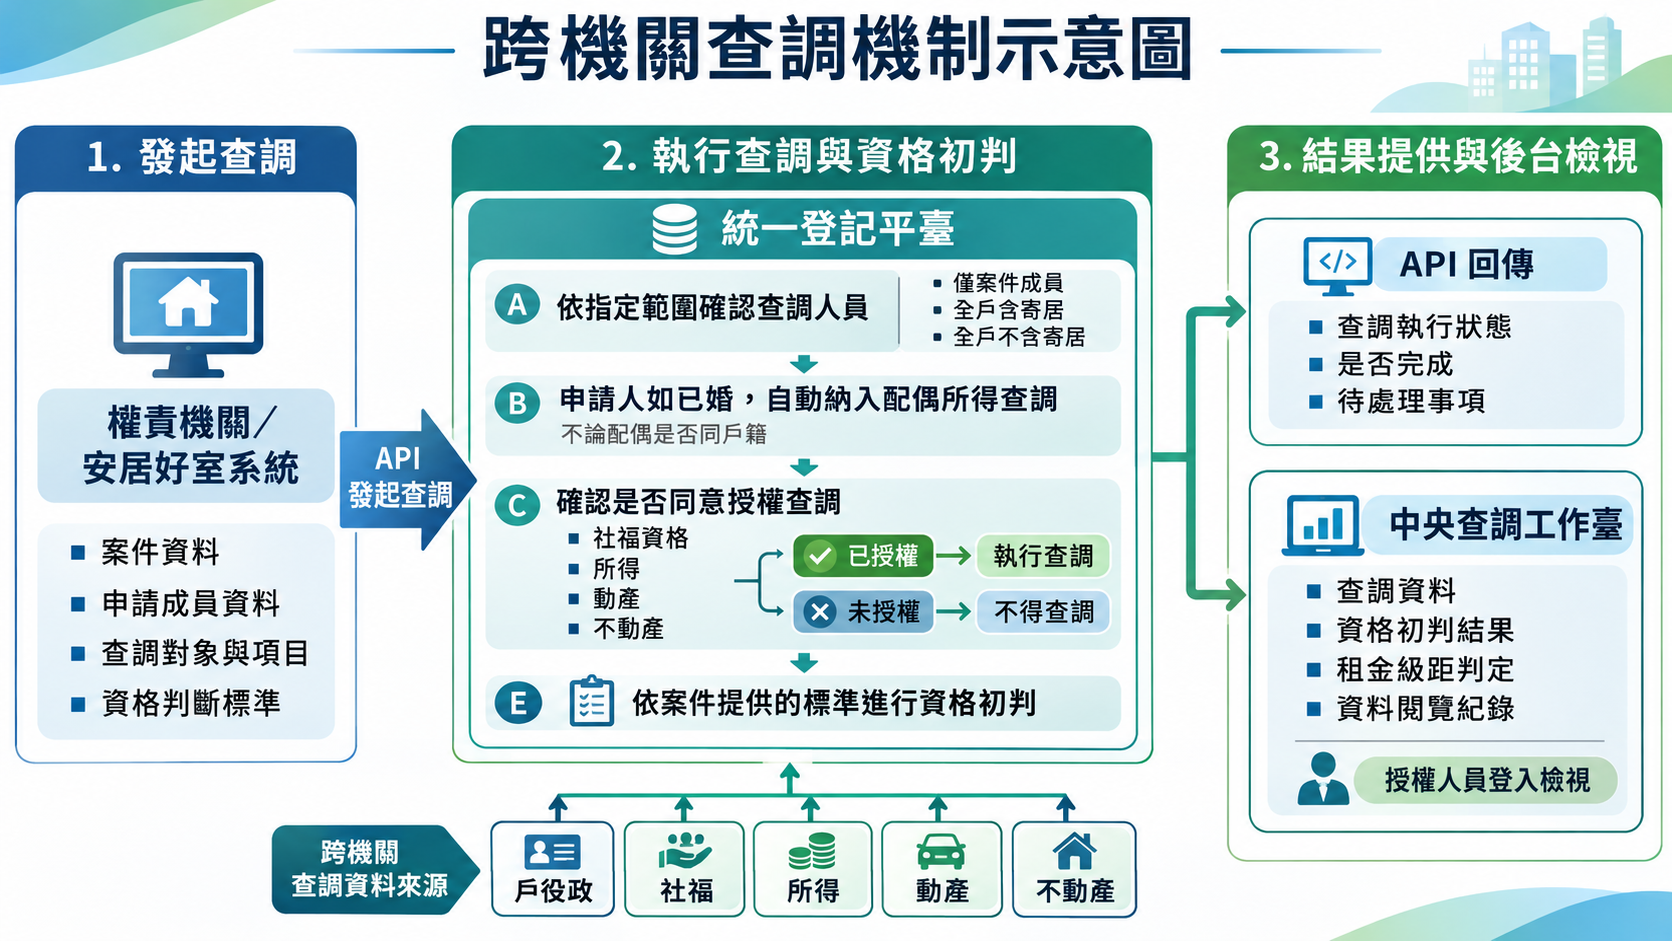
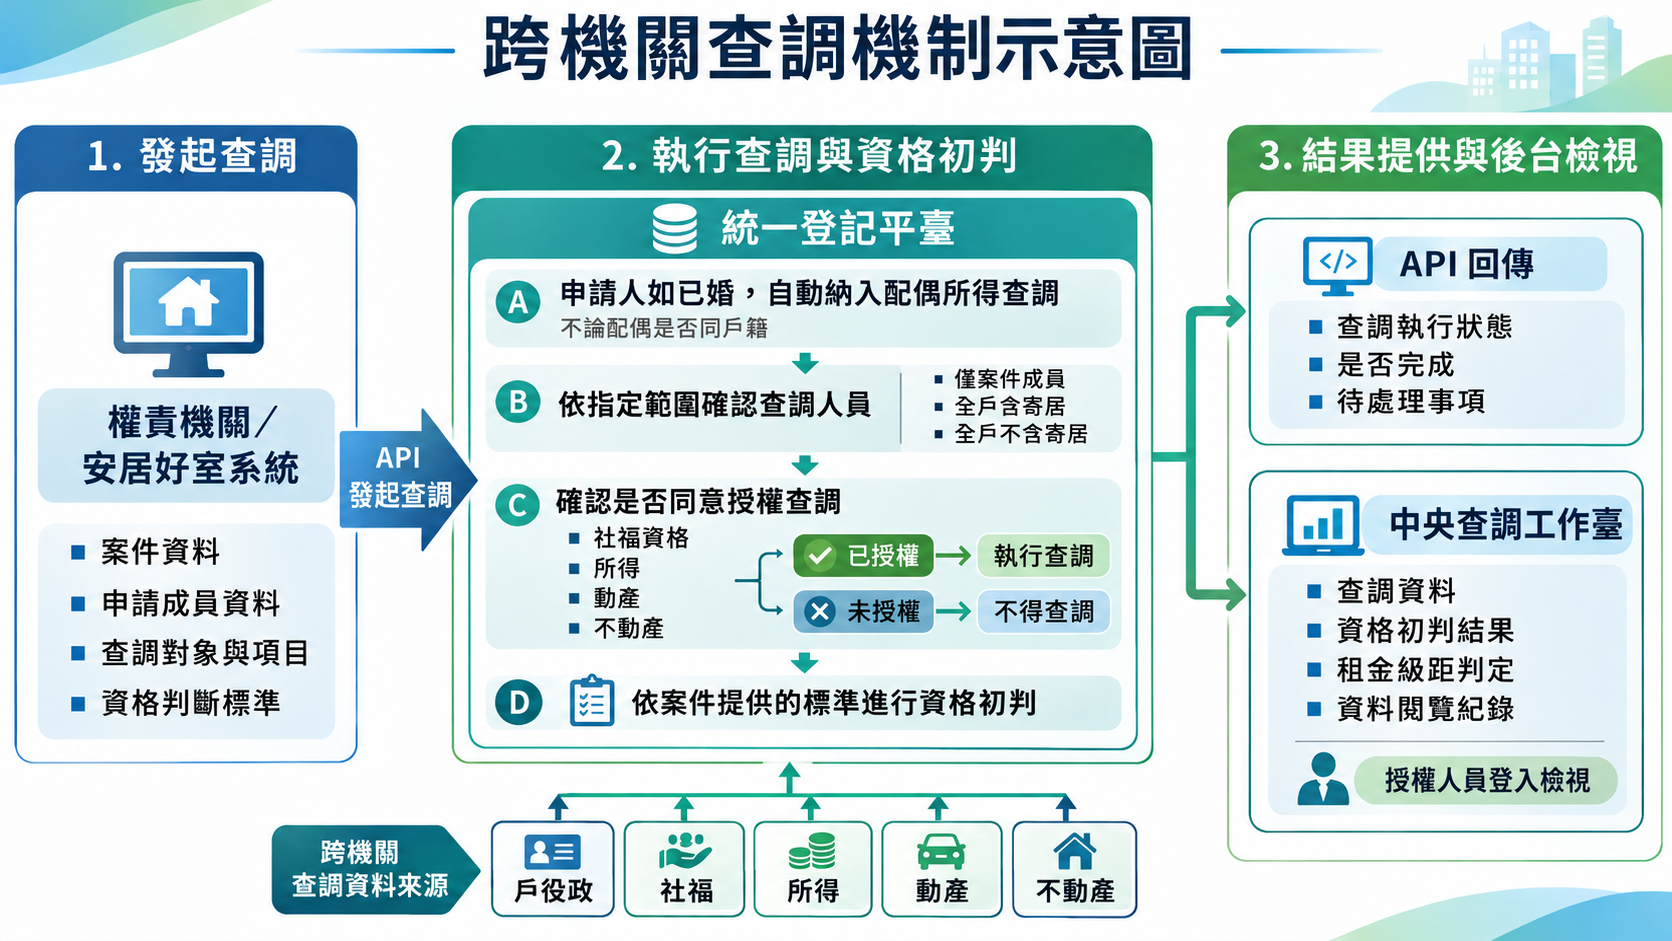
update

diff --git a/規格文件/跨機關查調機制.md b/規格文件/跨機關查調機制.md
@@ -10,11 +10,9 @@
 
 查調**社福資格、所得、動產及不動產**前，須確認受查人員已同意授權；**未授權不得查調**。系統取得資料後，依案件提供的標準進行**資格初判**。
 
-查調完成後，API 提供**查調執行狀態**；權責機關授權人員登入**中央查調工作臺**檢視查調資料及初判結果，系統並**留存資料閱覽紀錄**。
+查調完成後，API 提供**查調執行狀態**；權責機關授權人員登入**中央查調工作臺**檢視查調資料及初判結果，系統並**留存資料閱覽紀錄**及該案**歷次查調紀錄**。
 
 ![跨機關查調機制流程圖](跨機關查調機制流程圖.png)
-
-### 1.1 目的、分工與共同原則
 
 本規劃採三支對外 API，依序處理「確認配偶是誰」、「取得各戶名單」、「執行案件查調」。**配偶即使不同戶，仍須能透過婚姻／配偶資料識別，不能只在申請人戶籍名單內尋找配偶。**
 
@@ -38,8 +36,8 @@
 
 | 資料類別 | 輸入內容 |
 |---|---|
-| **案件資料** | 統一案件編號、權責機關<br>申請社宅、申請房型、申請時間<br>查調基準日 |
-| **案件成員** | **第一筆固定為申請人** <br>姓名、身分證字號、懷孕胎兒數<br>是否同意授權查調|
+| **申請案件資料** | 統一案件編號、權責機關<br>申請社宅(代碼)、申請房型(名稱)、申請時間<br>查調基準日 |
+| **申請案件成員** | **第一筆固定為申請人** <br>姓名、身分證字號、懷孕胎兒數<br>是否同意授權查調|
 | **名單準備方式（三選一，非 API 欄位）** | ① **僅案件成員**<br>② **全戶含寄居**<br>③ **全戶不含寄居** |
 | **查調資料（可複選）** | ① **戶役政**（基本）<br>② **社福資格**（基本，須授權）<br>③ **所得**（基本，須授權）<br>④ **動產**（依需求，須授權）<br>⑤ **不動產**（依需求，須授權） |
 | **資格標準** | ① **年所得標準**<br>② **每人每月平均所得標準**<br>③ **不動產價值標準**<br>④ **動產價值標準**<br>⑤ **所得級距**：<br>　• 級距名稱（可自訂，筆數不固定）<br>　• 條件二選一：**每人每月平均所得起訖範圍**，或**住宅法第 4 條弱勢身分（勾選 13 類中的適用項目）** |
@@ -540,9 +538,7 @@ flowchart TD
 - `LAW` 與 `INCOME` 條件擇一；級距依順序判斷，必要資料不足不跳過前項直接判定較後級距。`W01`、`W07` 暫為代碼示意，正式類別對照表須在會議確認，不據此推定具體資格。
 - 重送同一請求與主動重新查調須能區分，避免意外產生重複批次；冪等識別、逾時及錯誤格式列為後續技術契約，不在本版捏造輸出。
 
-## 五、中央結果檢視
-
-本節僅說明中央工作臺的檢視功能，不定義對外 API 或內部介面路徑。案件查調 API 的輸出尚未定案，暫不提供格式範例。
+## 五、查調工作台 - 結果檢視
 
 中央工作臺顯示：**家庭總所得、每人每月平均所得、動產、不動產的實際值／標準／初判結果，以及適用租金級距與判斷理由、戶籍成員明細**。
 
@@ -557,19 +553,19 @@ flowchart TD
 [查調結果明細(配偶未列未授權)](https://jillyz.github.io/housing/backend/enquiry-detail-spouse-demo.html)
 
 
-## 六、會議需確認的事項
+## 附錄一、財政部所得類別代號表
 
-下列為尚未定案的設計決策，不應視為已完成的介接規格。
 
-| 項目 | 本版建議／需要確認的問題 | 建議確認對象 |
-|---|---|---|
-| 基本資料介接對照 | 是否已婚及已婚者配偶姓名、身分證字號已確認可取得；待確認來源欄位與狀態碼對照、查調基準日支援及錯誤情境，不再將資訊是否可取得列為待決事項。 | 戶政介接窗口、平臺團隊 |
-| 全戶回傳可行性 | 目前以同次呼叫回傳完整名單規劃；確認來源時效、最大等待時間及歷史基準日支援。若不支援，再討論非同步，不能先承諾。 | 兩方開發團隊、戶政介接窗口 |
-| 實際受查名單 | 建議由權責機關依業務規則提供 `query.subjectNationalIds`，中央檢核；配偶戶其他成員納入條件、不同人的查調項目須明訂。 | 國家住都中心／權責機關、兩方開發團隊 |
-| 人口與資格計算 | 哪些人計入所得與分母、胎兒認列、不動產排除項目、弱勢類別代碼對照與缺漏資料的處理。 | 業務單位、資料來源窗口 |
-| 授權及補件 | 布林值如何連結授權憑證、有效期間及項目；配偶待授權如何補入，補件是否新開批次。 | 業務單位、兩方開發團隊 |
-| 案件查調輸出 | 受理回傳、完成／部分完成、錯誤、待辦，以及輪詢或完成通知；尚未定案，本版不提供輸出 JSON。 | 兩方開發團隊、業務單位 |
-| 請求與資料一致性 | 防止重複送件的識別方式、跨案件引用檢核、引用結果失效／刪除後如何重查、基本資料結果如何與後續案件綁定。 | 兩方開發團隊 |
-| 六個月保存及閱覽軌跡 | 查調版本最多保存六個月；建議以送查調時間起算，須確認正式起算點、到期刪除執行與涵蓋資料。閱覽軌跡保存政策另定，不與原始查調內容混為一談。 | 業務單位、系統維運／資安窗口 |
-
-**本次會議建議產出：** 確認三支 API 的分工及資料來源可行性、決定實際受查名單與配偶戶納入規則、指定輸出契約與例外處理的確認窗口；再據此形成可供開發的正式版。
+| 代碼 | 內容 |
+|---|---|
+| 1 | 營利所得 |
+| 2 | 執行業務所得 |
+| 3 | 薪資所得 |
+| 4 | 利息所得 |
+| 5 | 租賃所得及權利金所得 |
+| 6 | 自力耕作、漁、牧、林、礦之所得 |
+| 7 | 財產交易所得 |
+| 8 | 競技、競賽及機會中獎之獎金或給與 |
+| 9 | 退職所得 |
+| A | 其他所得 |
+| 空白 | 全部不分類 |
